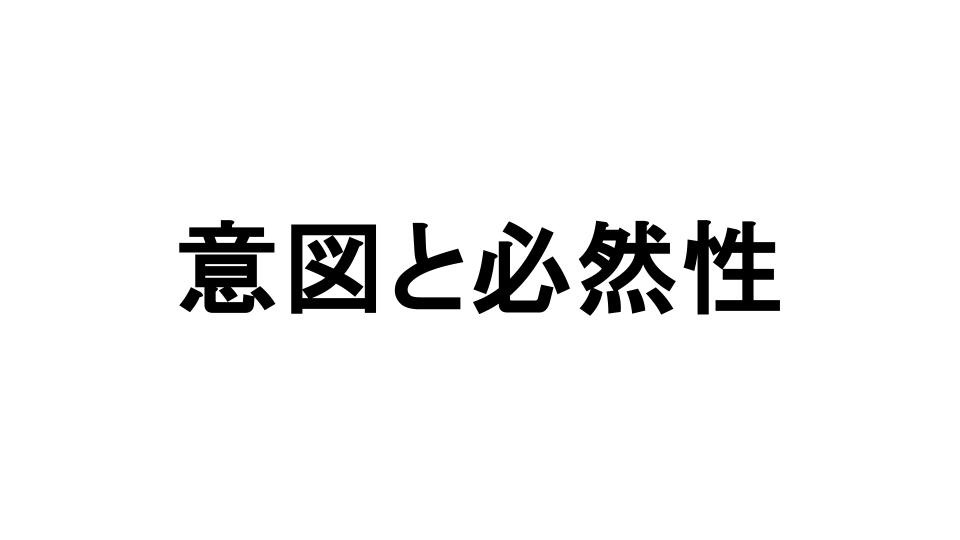
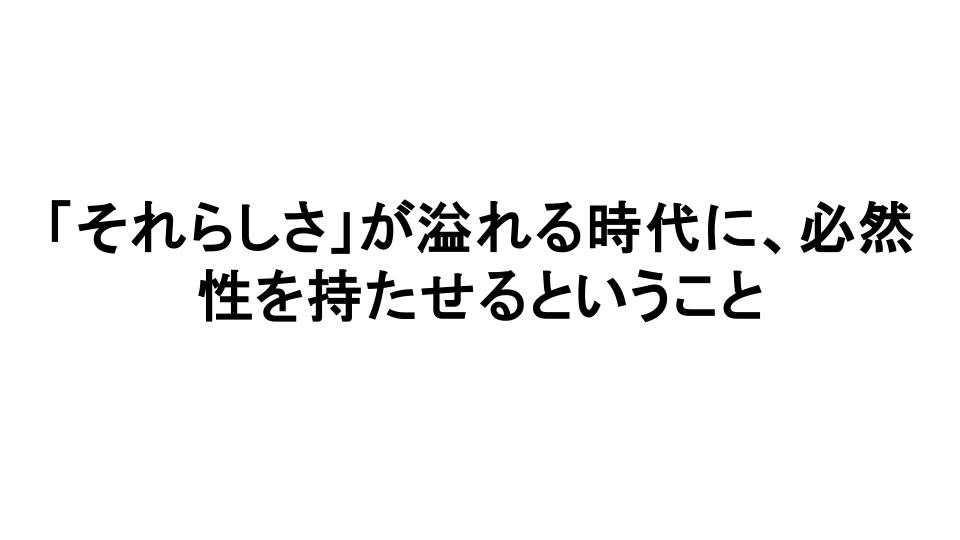
adjust expression again

Changed region(s): [[0.0312, 0.3556, 0.9688, 0.6222]]

diff --git a/posts/intent-and-necessity/index.md b/posts/intent-and-necessity/index.md
@@ -1,6 +1,6 @@
 ---
-title: 意図と必然性
-description: 意図と必然性について語る
+title: 「それらしさ」が溢れる時代に、必然性を持たせるということ
+description: 表面的な「それらしさ」が溢れる今、日常の細部に確かな理由と信頼を積み重ねていくための、思慮深さとは何かについて語る。
 date: 2026-11-24
 tags:
   - 哲学
@@ -12,34 +12,34 @@ authors:
 thumbnail: ./thumbnail.jpg
 ---
 
-体裁は綺麗に整っているのに、なぜか人の心を動かさない仕事や提案を見かけることがある。翻って、細部に至るまで「こうでなければならなかった」という圧倒的な説得力を宿す組織やアウトプットも少なくない。  
+体裁は綺麗に整っているのに、なぜか人の心を動かさないものがある。生成AIの普及によって、それらしく整った文章や画像、いわゆる「AI Slop（AIが量産する、文脈や必然性を欠いた均質なコンテンツ）」が日常に溢れるようになった現在、その違和感はより鮮明になっている。翻って、細部に至るまで「こうでなければならなかった」という説得力を持つ表現や空間、人の振る舞いも確かに存在する。  
   
-両者を分かつ決定的な違いは何だろうか。それは、物事に備わる「必然性」と、その核となる「意図」の有無にほかならない。事業戦略の立案から日々の資料作成、組織の制度設計、個人のキャリア選択に至るまで、あらゆる営みの質はこの二要素に左右される。  
+両者を分かつ決定的な違いは何だろうか。それは、物事に備わる「必然性」と、その核となる「意図」の有無にほかならない。日々の言葉選びから暮らしの道具、他者との関わり、あるいは仕事における企画設計に至るまで、あらゆる営みの質はこの構造に左右される。
   
-なぜ私たちの仕事や選択は、容易に「なんとなく」へと流されてしまうのか。自由度の高い日常のなかで、自らの手で揺るぎない必然性を築くには、一体何が求められるのだろうか。  
+なぜ私たちの選択や表現は、容易に「なんとなく」へと流されてしまうのか。自由度の高い日常のなかで、自らの手で揺るぎない必然性を築くには、一体何が求められるのだろうか。  
   
 ## 自由度の高い領域では、自ら制約を課さなければならない
   
-自然界や極限の合理性が支配する現場では、必然性が外側から強制される。インフラの設計を例にとれば、物理法則や地形、予算、安全基準といった過酷な条件が選択肢を狭める。設計者の気分で構造を左右する余地などなく、不合理な判断は、崩壊や莫大な損失という形で即座に淘汰される運命にある。厳しい制約をくぐり抜けた構造物には、隅々まで「そうあらねばならない根拠」がある。外部環境が突きつける冷徹な合理性が、設計者の意図を代替しているのだ。  
+自然界や極限の合理性が支配する現場では、必然性が外部から強制される。インフラの設計を例にとれば、物理法則や地形、予算、安全基準といった様々な条件が選択肢を狭める。設計者の気分で構造を左右する余地などなく、不合理な判断は、崩壊や莫大な損失という形で即座に淘汰される運命にある。厳しい制約をくぐり抜けた構造物には、隅々まで「そうあらねばならない根拠」がある。外部環境が突きつける合理性が、作り手の意図を代替しているのだ。  
 
-一方で、私たちが日々向き合うデスクワークやサービス設計、組織運営、あるいは生き方といった領域に、そこまでの強制力は働かない。会議の進め方を変えようと、企画書の構成を少し妥協しようと、物理法則が口を出すことはないし、現場が即座に破綻するわけでもない。明確な意思を欠いたままでも体裁は整い、日常の業務は滞りなく回っていく。  
+一方で、私たちが日々向き合う表現や暮らしの設計、人間関係、あるいはビジネスの現場といった領域に、そこまでの強制力は働かない。言葉の選び方を少し妥協しようと、企画の構成をなんとなく決めようと、物理法則が口を出すことはないし、物事が即座に破綻するわけでもない。明確な意思を欠いたままでも体裁は整い、物事は滞りなく回っていく。  
   
-自由度の高さは、放っておけば無自覚な選択で埋め尽くされる危うさと表裏一体である。だからこそ、外部から制約が与えられない領域では、実行者が自ら基準を立て、選び取り、その理由を引き受けなければならない。これが「意図」である。意図とは、「なぜ他の選択肢ではなく、これなのか」という問いに対する自分なりの答えだ。判断の軸は顧客への提供価値でも、組織の理念でも、個人の美学でも構わない。肝要なのは、決めずに済ませる安易な誘惑に抗い、自らに制約を課す姿勢そのものにある。  
+自由度の高さは、放っておけば無自覚な選択で埋め尽くされる危うさと表裏一体である。だからこそ、外部から制約が与えられない領域では、実行者が自ら基準を立て、選び取り、その理由を引き受けなければならない。これが「意図」である。「なぜ他の無数の選択肢ではなく、これなのか」という問いに対して立ち止まり、自分なりの答えを編み出す姿勢こそ、「思慮深さ」の正体にほかならない。判断の軸は相手への敬意でも、仕事上の理念でも、個人の美学でも構わない。肝要なのは、決めずに済ませる安易な誘惑に抗い、自らに制約を課す姿勢そのものにある。  
   
 ## 「理由の密度」が、一貫性と深い信頼をつくる
   
-場当たり的な妥協の積み重ねと、明確な意図のもとで設計された営みとの間には、圧倒的な質の差が生まれる。  
+場当たり的な妥協や自動生成されたような均質さと、思慮深さのもとで設計された営みとの間には、圧倒的な質の差が生まれる。  
   
-意図がある状態では、すべての要素が一本の線で結びついている。掲げた理念は評価制度と連動し、事業戦略は日々のタスクへと落とし込まれ、発する言葉の一つひとつが相手の心理と精緻に噛み合う。誰かが「なぜこの形なのか」と疑問を抱けば、そこには必ず筋の通った答えが返ってくる。  
+意図が通底している状態では、すべての要素が一本の線で結びついている。語られる言葉と実際の行動が一致し、空間の隅々にまで同じ美意識が流れ、仕事であれば理念と日々の判断が精緻に噛み合う。誰かが「なぜこの形なのか」と疑問を抱けば、そこには必ず筋の通った答えが返ってくる。  
   
-対照的に、意図を欠いた仕組みや提案は、少し深掘りされただけで底の浅さを露呈する。「前例があるから」「なんとなく」といった空虚な弁明に何度か触れれば、相手は次第に関心や期待を失っていく。  
+対照的に、意図を欠いた仕組みや提案は、少し深掘りされただけで底の浅さを露呈する。「前例があるから」「なんとなく」あるいは「ツールがそう出力したから」といった空虚な弁明に何度か触れれば、相手は次第に関心や期待を失っていく。  
   
-必然性はまた、深い「信頼」の源泉でもある。目に映る部分に確かな裏付けがあると知った他者は、「まだ見えていない部分にも、きっと妥当な理由があるはずだ」と推測し、安心して物事を委ねられるようになる。優れた仕事や人物が放つ説得力の正体は、まさにこの「理由の密度」にほかならない。  
+必然性はまた、深い「信頼」の源泉でもある。目に映る部分に思慮深さの痕跡を見出したとき、他者は「まだ見えていない部分にも、きっと確かな理由があるはずだ」と推測し、安心して心や物事を委ねられるようになる。優れた表現や人物が放つ説得力の正体は、まさにこの「理由の密度」にある。  
   
 ## 末端の細部にこそ、全体の質が宿る
   
-したがって、どれほど些細に見える要素であっても、そこに意図を宿らせるべきだ。メールの結びの一文、会議のアジェンダ、店舗の隅の清掃、資料の余白、日常の何気ない振る舞い。こうした末端のディテールは、手を抜いても誰にも気づかれないと錯覚しがちである。  
+したがって、どれほど些細に見える要素であっても、そこに意図を宿らせるべきだ。誰かに宛てる短いメッセージの結び、資料の余白、日常の何気ない振る舞い。こうした末端のディテールは、手を抜いても誰にも気づかれないと錯覚しがちである。  
   
-だが、細部から根拠が抜け落ちていれば、そこから「場当たり的な薄さ」が確実に透けて見える。受け手はすべての細部を意識的に採点しているわけではない。しかし、意志の宿った細部が積み重なったものとそうでないものの違いは、全体の「感触」や「佇まい」となって如実に伝わる。  
+だが、細部から思考の痕跡が抜け落ちていれば、そこから「場当たり的な薄さ」や、AI Slopに通じる「誰が作ったか分からない空虚さ」が確実に透けて見える。受け手はすべての細部を意識的に採点しているわけではない。しかし、意志の宿った細部が積み重なったものとそうでないものの違いは、全体の「感触」や「佇まい」となって如実に伝わる。  
   
-あらゆる要素に意図を持たせることは、厳しい現実が合理性によって自動的に達成している必然性を、自由な領域において自力で再現する営みである。そこには当然、大きな労力が伴う。それでも、自らの仕事や生き方を「なんとなく」の凡庸さから救い出し、確かな価値と信頼を生み出す道は、それ以外にないのだ。
+あらゆる要素に意図を持たせることは、厳しい現実が合理性によって自動的に達成している必然性を、自由な領域において自力で再現する営みである。そこには当然、大きな手間と時間が伴う。それでも、自らの仕事や生き方を「なんとなく」の凡庸さから救い出し、確かな価値と信頼を生み出す道は、それ以外にないのだ。
